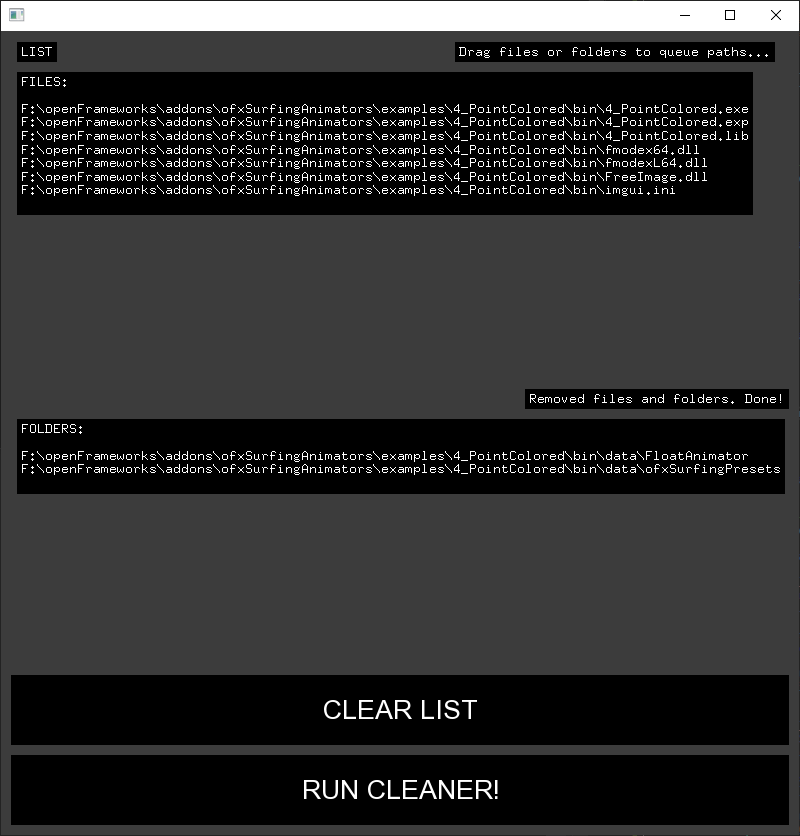
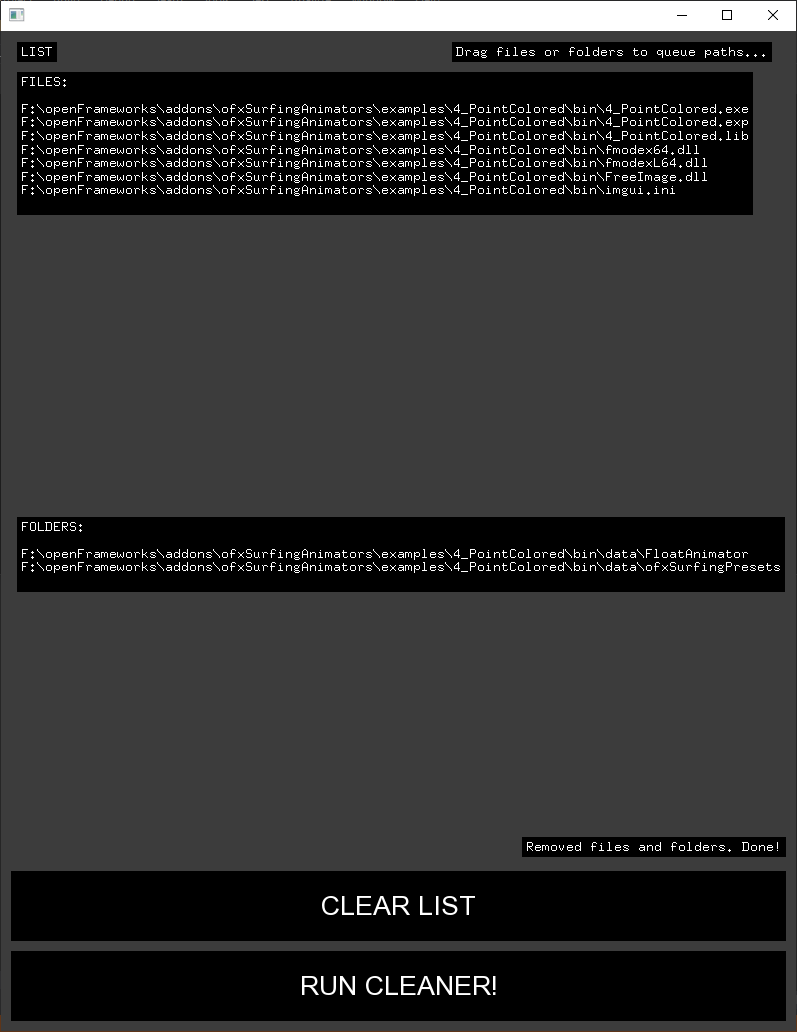
+

diff --git a/src/ofxSurfingDataRemover.cpp b/src/ofxSurfingDataRemover.cpp
@@ -148,7 +148,41 @@ void ofxSurfingDataRemover::setup()
 
 	//--
 
+	// button
+	font.loadFont(OF_TTF_SANS, 20, true, true, true);
 
+	int x, y, w, h, pad;
+	pad = 10;
+	h = 70;
+	w = ofGetWidth() - 2 * pad;
+	y = ofGetHeight() - h - pad;
+	x = pad;
+
+	butRemove.setup("RUN CLEANER!", x, y, w, h);
+	butRemove.setFont(&font);
+	butRemove.setEnabled(true);
+	butRemove.setPressedColor(255);
+	butRemove.setActiveColor(255);
+	butRemove.setHoverColor(128);
+	butRemove.setStringColor(255);
+	butRemove.setBackgroundColor(0);
+	butRemove.setAutoMouse(true);
+	butRemove.setStringColor(255);
+
+	y -= h + 1 * pad;
+	butClear.setup("CLEAR LIST", x, y, w, h);
+	butClear.setFont(&font);
+	butClear.setEnabled(true);
+	butClear.setPressedColor(255);
+	butClear.setActiveColor(255);
+	butClear.setHoverColor(128);
+	butClear.setStringColor(255);
+	butClear.setBackgroundColor(0);
+	butClear.setAutoMouse(true);
+	butClear.setStringColor(255);
+
+	ofAddListener(butRemove.clickEvent, this, &ofxSurfingDataRemover::onButRemove);
+	ofAddListener(butClear.clickEvent, this, &ofxSurfingDataRemover::onButClear);
 
 	//--
 
@@ -266,48 +300,27 @@ void ofxSurfingDataRemover::windowResized(int w, int h)
 	screenW = w;
 	screenH = h;
 
-	//-
-
 	// user gui deopending on window dimensions
 	//gui_Control.setPosition(screenW * 0.5 - 200, screenH - 200);
 
-	//if (ofGetFrameNum() == 0)
-	{
-		// button
-		font.loadFont(OF_TTF_SANS, 20, true, true, true);
-		int x, y, w, h;
-		int pad = 10;
-		h = 70;
-		w = ofGetWidth() - 2 * pad;
-		y = ofGetHeight() - h - pad;
-		x = pad;
+	//-
 
-		butRemove.setup("RUN CLEANER!", x, y, w, h);
-		butRemove.setFont(&font);
-		butRemove.setEnabled(true);
-		butRemove.setPressedColor(255);
-		butRemove.setActiveColor(255);
-		butRemove.setHoverColor(128);
-		butRemove.setStringColor(255);
-		butRemove.setBackgroundColor(0);
-		butRemove.setAutoMouse(true);
-		butRemove.setStringColor(255);
+	// button
+	int x, y, ww, hh, pad;
+	pad = 10;
+	hh = 70;
+	ww = ofGetWidth() - 2 * pad;
+	y = ofGetHeight() - hh - pad;
+	x = pad;
 
-		y -= h + 1 * pad;
-		butClear.setup("CLEAR LIST", x, y, w, h);
-		butClear.setFont(&font);
-		butClear.setEnabled(true);
-		butClear.setPressedColor(255);
-		butClear.setActiveColor(255);
-		butClear.setHoverColor(128);
-		butClear.setStringColor(255);
-		butClear.setBackgroundColor(0);
-		butClear.setAutoMouse(true);
-		butClear.setStringColor(255);
+	//butRemove.setPosition(x, y);
+	//butRemove.setSize(w, h);
+	butRemove.setup("RUN CLEANER!", x, y, ww, hh);
 
-		ofAddListener(butRemove.clickEvent, this, &ofxSurfingDataRemover::onButRemove);
-		ofAddListener(butClear.clickEvent, this, &ofxSurfingDataRemover::onButClear);
-	}
+	y -= hh + 1 * pad;
+	//butClear.setPosition(x, y);
+	//butClear.setSize(w, h);
+	butClear.setup("CLEAR LIST", x, y, ww, hh);
 }
 
 // keys
@@ -653,7 +666,7 @@ void ofxSurfingDataRemover::dragEvent(ofDragInfo info) {
 
 //--------------------------------------------------------------
 void ofxSurfingDataRemover::drawInfo() {
-	int x, y, w, h;
+	int x, y, w, h, pad;
 	x = 20;
 	y = 25;
 	string s = "LIST";
@@ -666,16 +679,19 @@ void ofxSurfingDataRemover::drawInfo() {
 	y = ofGetHeight() / 2;
 	ofDrawBitmapStringHighlight("FOLDERS:" + ofToString((foldersList.get() != "") ? "\n\n" : "") + foldersList.get(), x, y);
 
-	w = 270;
-	x = ofGetWidth() - w;
-	y = ofGetHeight() / 2;
-	y -= 30;
-	if (msg != "") ofDrawBitmapStringHighlight(msg, x, y);
-
 	w = 340;
 	x = ofGetWidth() - w;
 	y = 25;
 	ofDrawBitmapStringHighlight("Drag files or folders to queue paths...", x, y);
+
+	w = 270;
+	x = ofGetWidth() - w;
+	h = 70;
+	pad = 10;
+	y = ofGetHeight() - 2 * h - 4 * pad;
+	//y = ofGetHeight() / 2;
+	//y -= 30;
+	if (msg != "") ofDrawBitmapStringHighlight(msg, x, y);
 }
 
 //--------------------------------------------------------------

diff --git a/src/ofxClickable.cpp b/src/ofxClickable.cpp
@@ -321,6 +321,12 @@ void ofxClickable::setPosition(int x, int y) {
 }
 
 //--------------------------------------------------------------
+void ofxClickable::setSize(int w, int h) {
+    rect.setWidth(w);
+    rect.setHeight(h);
+}
+
+//--------------------------------------------------------------
 void ofxClickable::setBackgroundGradient(int bGradientAmt) {
     this->bGradientAmt = bGradientAmt;
     updateFbo();

diff --git a/src/ofxClickable.h b/src/ofxClickable.h
@@ -52,6 +52,7 @@ public:
     virtual int getCornerRounded() {return roundCorners;}
 
     virtual void setPosition(int x, int y);
+    virtual void setSize(int w, int h);
     virtual void draw();
     virtual void draw(ofEventArgs& e);
     

diff --git a/README.md b/README.md
@@ -4,7 +4,7 @@
 
 ## Overview
 **openFrameworks** add-on to clean your ```OF_APP/data/``` files.  
-Queue a list of files and folders to batch remove during your coding process.
+Queue a list of files and folders to batch remove periodically during your coding process.
 
 ## Screenshot
 ![image](docs/readme_images/Capture1.PNG?raw=true "image")
@@ -13,11 +13,15 @@ Queue a list of files and folders to batch remove during your coding process.
 
 ## Usage
 - Drag the files and folders that you want to remove from your hard drive or ```OF_APP/data/``` folder.
-- Run the removing process.
+- Run the removing process for the list.
 - Clear list to create a new project.
+- The list remains next time the app is opened.
 
 ## Dependencies
 * [ofxSurfingHelpers](https://github.com/moebiussurfing/ofxSurfingHelpers)  
+
+Already included into _/src_. No need to add manually on **PROJECT GENERATOR**.  
+* [ofxClickable](https://github.com/genekogan/ofxClickable)  
 
 ## Tested Systems
 * **Windows 10** / **VS 2017** / **OF ~0.11**
